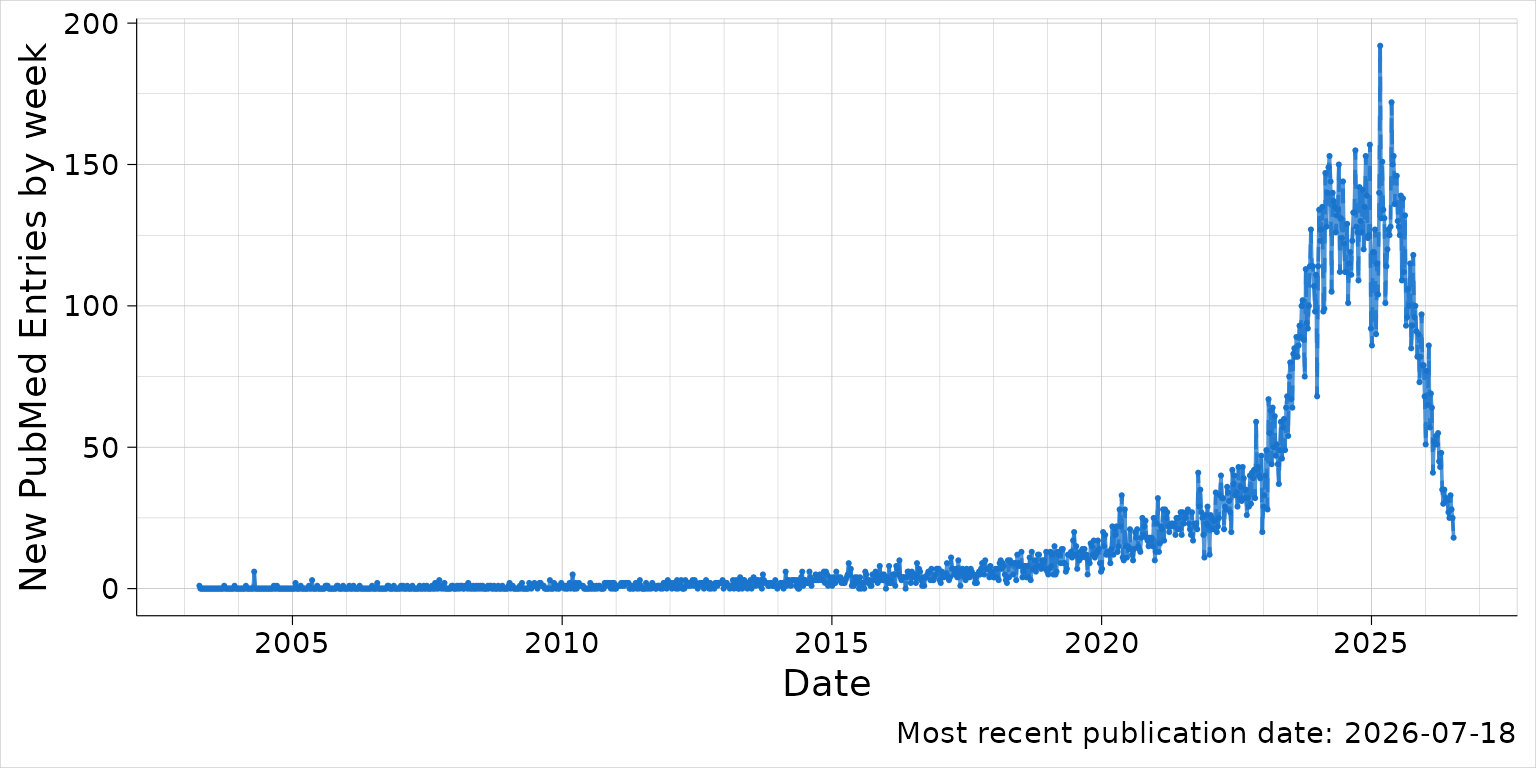
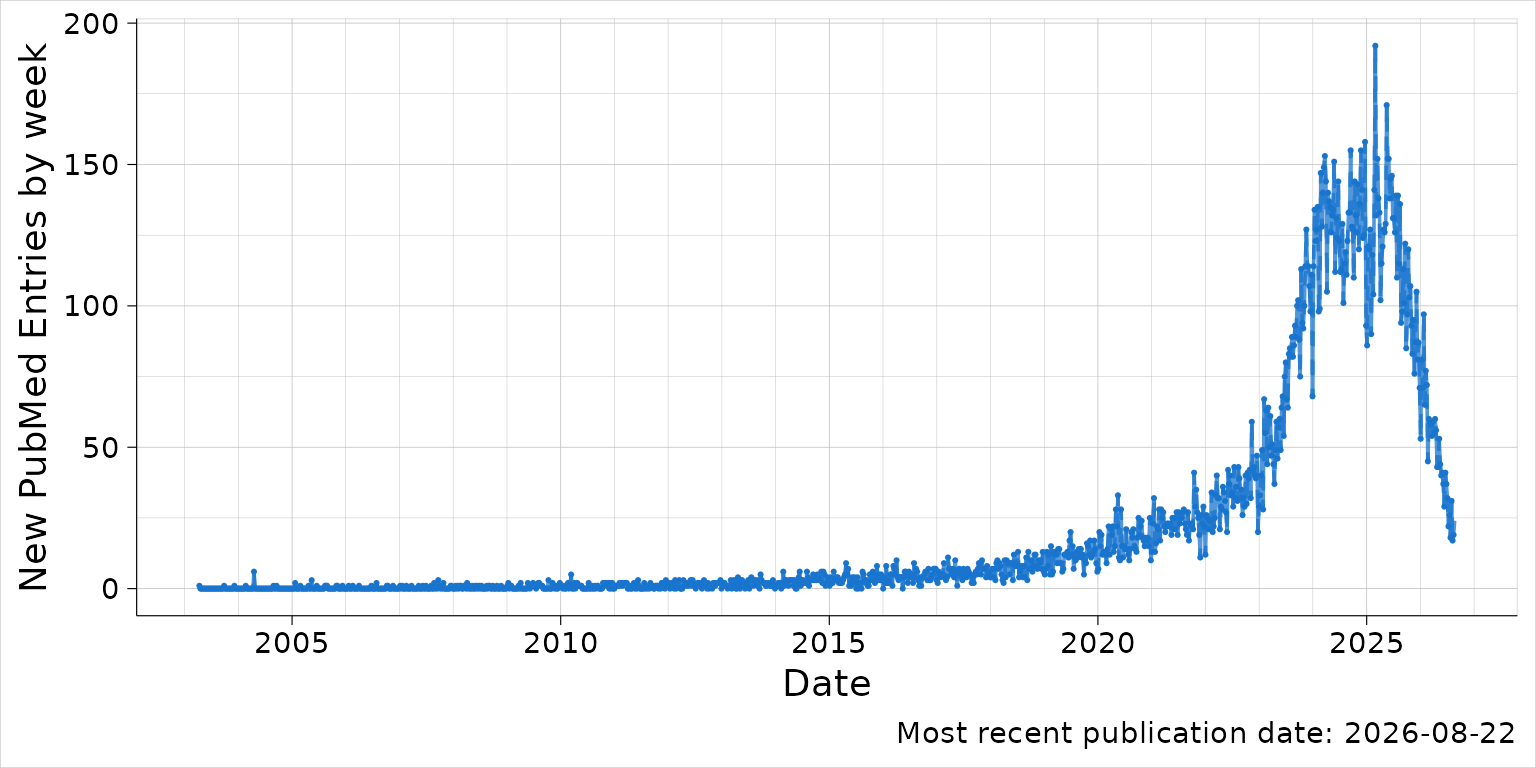
Deploying to gh-pages from @ explodecomputer/PubmedPlot@068eacdf5acdc66ea1c8a3d5640505ac4a8cb4ee 🚀

diff --git a/articles/mr.html b/articles/mr.html
@@ -199,7 +199,7 @@
 <span><span class="co">#&gt; Fetching records 6001 to 6437 </span></span>
 <span><span class="co">#&gt; Searching for year: 2025 </span></span>
 <span><span class="co">#&gt; Search term: "Mendelian randomisation" [tiab] OR "Mendelian randomization" [tiab] AND ("2025/01/01"[dp] : "2025/12/31"[dp]) </span></span>
-<span><span class="co">#&gt; Found 7133 articles matching the search term.</span></span>
+<span><span class="co">#&gt; Found 7135 articles matching the search term.</span></span>
 <span><span class="co">#&gt; Fetching records 1 to 500 </span></span>
 <span><span class="co">#&gt; Fetching records 501 to 1000 </span></span>
 <span><span class="co">#&gt; Fetching records 1001 to 1500 </span></span>
@@ -214,10 +214,10 @@
 <span><span class="co">#&gt; Fetching records 5501 to 6000 </span></span>
 <span><span class="co">#&gt; Fetching records 6001 to 6500 </span></span>
 <span><span class="co">#&gt; Fetching records 6501 to 7000 </span></span>
-<span><span class="co">#&gt; Fetching records 7001 to 7133 </span></span>
+<span><span class="co">#&gt; Fetching records 7001 to 7135 </span></span>
 <span><span class="co">#&gt; Searching for year: 2026 </span></span>
 <span><span class="co">#&gt; Search term: "Mendelian randomisation" [tiab] OR "Mendelian randomization" [tiab] AND ("2026/01/01"[dp] : "2026/12/31"[dp]) </span></span>
-<span><span class="co">#&gt; Found 3590 articles matching the search term.</span></span>
+<span><span class="co">#&gt; Found 4072 articles matching the search term.</span></span>
 <span><span class="co">#&gt; Fetching records 1 to 500 </span></span>
 <span><span class="co">#&gt; Fetching records 501 to 1000 </span></span>
 <span><span class="co">#&gt; Fetching records 1001 to 1500 </span></span>
@@ -225,7 +225,8 @@
 <span><span class="co">#&gt; Fetching records 2001 to 2500 </span></span>
 <span><span class="co">#&gt; Fetching records 2501 to 3000 </span></span>
 <span><span class="co">#&gt; Fetching records 3001 to 3500 </span></span>
-<span><span class="co">#&gt; Fetching records 3501 to 3590</span></span>
+<span><span class="co">#&gt; Fetching records 3501 to 4000 </span></span>
+<span><span class="co">#&gt; Fetching records 4001 to 4072</span></span>
 <span><span class="co"># write_json(a, "pubmed_abstracts.json", pretty=TRUE)</span></span>
 <span><span class="va">b</span> <span class="op">&lt;-</span> <span class="fu"><a href="../reference/group_by_time_interval.html">group_by_time_interval</a></span><span class="op">(</span><span class="va">a</span><span class="op">)</span></span>
 <span><span class="va">p</span> <span class="op">&lt;-</span> <span class="fu"><a href="../reference/plot_time_interval.html">plot_time_interval</a></span><span class="op">(</span><span class="va">b</span><span class="op">)</span></span></code></pre></div>

diff --git a/articles/mr.md b/articles/mr.md
@@ -139,7 +139,7 @@ a <- PubmedPlot::search_term_by_year('"Mendelian randomisation" [tiab] OR "Mende
 #> Fetching records 6001 to 6437 
 #> Searching for year: 2025 
 #> Search term: "Mendelian randomisation" [tiab] OR "Mendelian randomization" [tiab] AND ("2025/01/01"[dp] : "2025/12/31"[dp]) 
-#> Found 7133 articles matching the search term.
+#> Found 7135 articles matching the search term.
 #> Fetching records 1 to 500 
 #> Fetching records 501 to 1000 
 #> Fetching records 1001 to 1500 
@@ -154,10 +154,10 @@ a <- PubmedPlot::search_term_by_year('"Mendelian randomisation" [tiab] OR "Mende
 #> Fetching records 5501 to 6000 
 #> Fetching records 6001 to 6500 
 #> Fetching records 6501 to 7000 
-#> Fetching records 7001 to 7133 
+#> Fetching records 7001 to 7135 
 #> Searching for year: 2026 
 #> Search term: "Mendelian randomisation" [tiab] OR "Mendelian randomization" [tiab] AND ("2026/01/01"[dp] : "2026/12/31"[dp]) 
-#> Found 3590 articles matching the search term.
+#> Found 4072 articles matching the search term.
 #> Fetching records 1 to 500 
 #> Fetching records 501 to 1000 
 #> Fetching records 1001 to 1500 
@@ -165,7 +165,8 @@ a <- PubmedPlot::search_term_by_year('"Mendelian randomisation" [tiab] OR "Mende
 #> Fetching records 2001 to 2500 
 #> Fetching records 2501 to 3000 
 #> Fetching records 3001 to 3500 
-#> Fetching records 3501 to 3590
+#> Fetching records 3501 to 4000 
+#> Fetching records 4001 to 4072
 # write_json(a, "pubmed_abstracts.json", pretty=TRUE)
 b <- group_by_time_interval(a)
 p <- plot_time_interval(b)
